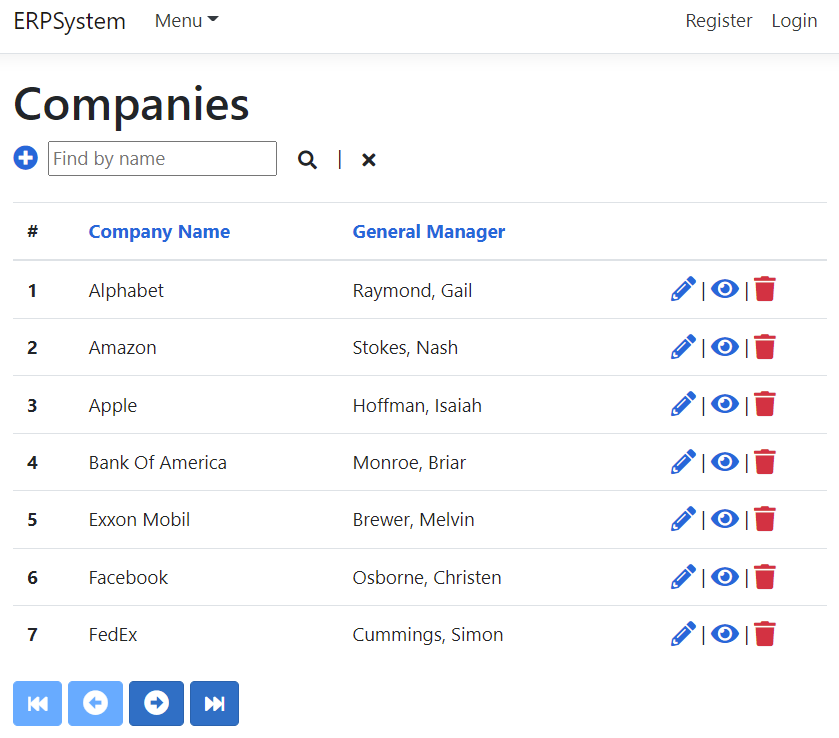
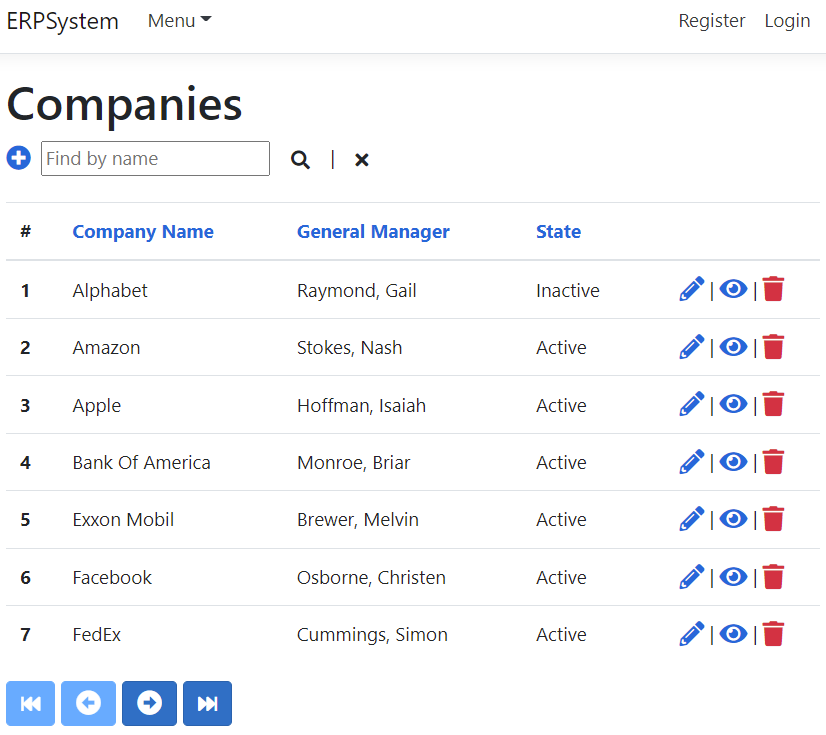
Company CRUD

diff --git a/Pages/Companies/Index.cshtml.cs b/Pages/Companies/Index.cshtml.cs
@@ -23,6 +23,7 @@ namespace ERPSystem.Pages.Companies
         }
         public string NameSort { get; set; }
         public string ManagerSort { get; set; }
+        public string StateSort { get; set; }
         public string CurrentFilter { get; set; }
         public string CurrentSort { get; set; }
         public PaginatedList<Company> Company { get; set; }
@@ -32,6 +33,7 @@ namespace ERPSystem.Pages.Companies
             CurrentSort = sortOrder;
             NameSort = String.IsNullOrEmpty(sortOrder) ? "name_desc" : "";
             ManagerSort = sortOrder == "manager" ? "manager_desc" : "manager";
+            StateSort = sortOrder == "state" ? "state_desc" : "state";
             if (searchString != null)
             {
                 pageIndex = 1;
@@ -58,6 +60,12 @@ namespace ERPSystem.Pages.Companies
                     break;
                 case "manager_desc":
                     companiesIQ = companiesIQ.OrderByDescending(s => s.GeneralManager.LastName).ThenBy(s => s.GeneralManager.FirstName);
+                    break;
+                case "state":
+                    companiesIQ = companiesIQ.OrderBy(s => s.CompanyState).ThenBy(s => s.Name);
+                    break;
+                case "state_desc":
+                    companiesIQ = companiesIQ.OrderByDescending(s => s.CompanyState).ThenBy(s => s.Name);
                     break;
                 default:
                     companiesIQ = companiesIQ.OrderBy(s => s.Name);
